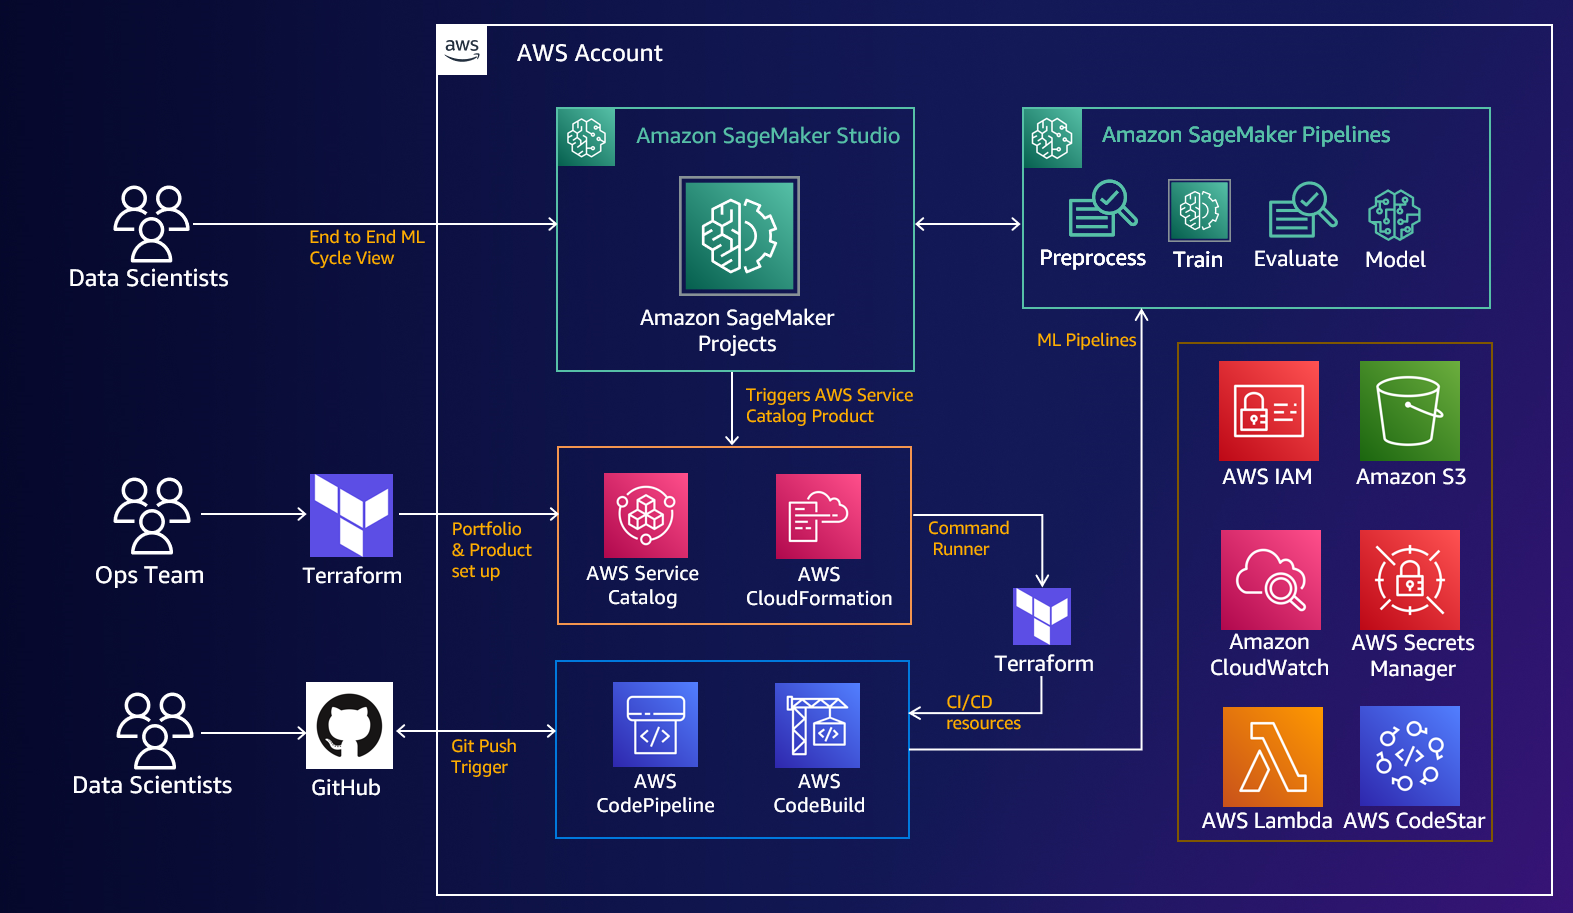
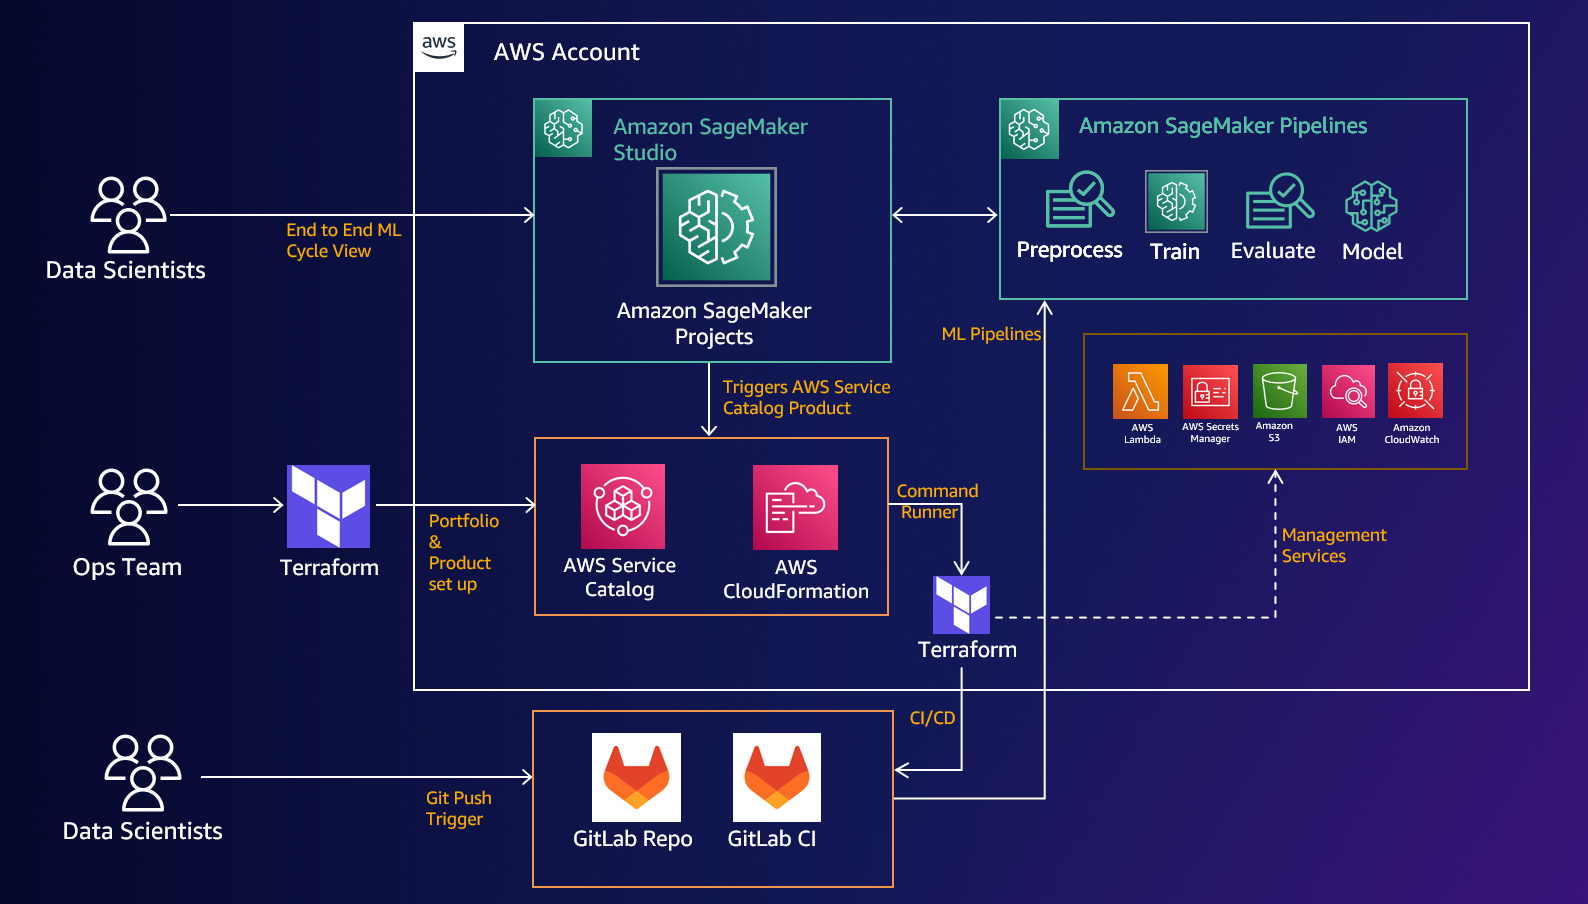
TF & ReadMe Updates

diff --git a/sm-project-tf-gitlab/README.md b/sm-project-tf-gitlab/README.md
@@ -1,6 +1,6 @@
-# Amazon SageMaker Project with Terraform and GitHub
+# Amazon SageMaker Project with Terraform and GitLab
 
-This section of the repository contains steps to set up Amazon SageMaker Project with Terraform as infrastructure as code for resources creation and GitHub connection for use case version control.
+This section of the repository contains steps to set up Amazon SageMaker Project with Terraform as infrastructure as code for resources creation and GitLab connection for use case version control.
 
 [A SageMaker Project](https://docs.aws.amazon.com/sagemaker/latest/dg/sagemaker-projects-whatis.html) helps organizations set up and standarize environments for automating different steps involved in a Machine Learning Lifecycle.
 
@@ -10,7 +10,7 @@ Amazon SageMaker provides a set of first-party templates for organizations that 
 
 SageMaker Projects can support custom template offerings where organizations use a minimum AWS CloudFormation template to execute a Terraform stack and create the resources needed for an ML workflow.
 
-In this section of this repository we will take a look how we can set up an Amazon SageMaker Project to automate and standardize the different steps involved in a Machine Learning Lifecycle by extending the SageMaker provided templates to provision AWS resources with Terraform and connect the use case code with GitHub repositories.
+In this section of this repository we will take a look how we can set up an Amazon SageMaker Project to automate and standardize the different steps involved in a Machine Learning Lifecycle by extending the SageMaker provided templates to provision AWS resources with Terraform and connect the use case code with GitLab repositories.
 
 
 
@@ -20,9 +20,8 @@ In this section of this repository we will take a look how we can set up an Amaz
 
 ### Architecture Overview:
 
-* In this example, the ML code will be hosted in a GitHub Repository.
-* Everytime a Git Push is performed in this repository, it will trigger a Machine Learning Pipeline orchestrated by the AWS CodePipeline.
-* Different steps of the AWS CodePipeline will be executed within an AWS CodeBuild project.
+* In this example, the ML code will be hosted in a GitLab Repository.
+* Everytime a Git Push is performed in this repository, it will trigger a Machine Learning Pipeline orchestrated by the GitLab CI.
 * These steps part of the ML workflow will be represented within an Amazon SageMaker feature called as the SageMaker Pipelines.
 * SageMaker Pipelines are a series of interconnected steps encoded using a directed acyclic graph (DAG).
 * DataScientists can review these SageMaker Pipelines in Amazon SageMaker Studio within the SageMaker Project.
@@ -39,15 +38,13 @@ In this section of this repository we will take a look how we can set up an Amaz
             - AWS IAM resources.
             - DynamoDB table for backend state of the SageMaker Project infrastructure. 
             - CloudWatch Log group.
-            - Secrets Manager secret to store the GitHub Credentials.
+            - Secrets Manager secret to store the GitLab Credentials.
             
     * Second package is for the [Amazon SageMaker Project Set Up](sagemaker-project-setup)
         - This has the terraform code to provision Machine Learning Pipeline resources associated with the SageMaker project.
         - At a high level those resources are:
-            - AWS CodePipeline for the ML workflow.
-            - AWS CodeBuild resources for this CodePipeline.
             - S3 bucket to store the ML artifacts
-            - AWS Lambda function and CodeBuild resources to push a sample ML seed code to the GitHub ML repo.
+            - AWS Lambda function to push a sample ML seed code to the GitLab ML repo.
 
 ### Integration between Amazon SageMaker Project and Terraform
 
@@ -61,27 +58,20 @@ In this section of this repository we will take a look how we can set up an Amaz
 
 
 ## Instructions
-
-### Step 1: Create AWS CodeStar Connection for GitHub Integration
-
-1. In this example we will be using GitHub as the Source Code repository to store our Machine Learning Code.
-2. We will use AWS CodeStar service to set up the GitHub repo connection with AWS.
-3. Follow the instructions provided [in this link for the CodeStart Connection](https://docs.aws.amazon.com/sagemaker/latest/dg/sagemaker-projects-walkthrough-3rdgit.html#sagemaker-proejcts-walkthrough-connect-3rdgit)
-4. Note the AWS CodeStar Connection ARN.
     
-### Step 2: Enable CloudFormation CommandRunner Utility in your AWS account
+### Step 1: Enable CloudFormation CommandRunner Utility in your AWS account
 
 1. As mentioned earlier, we will be using CommandRunner Utility to run the second package of the Terraform Code to provision the ML pipeline resources.
 2. CommandRunner is not enabled by default, we will need to register it to start using it.
 3. Follow the instructions provided [in this link for the CommandRunner set up](https://aws.amazon.com/premiumsupport/knowledge-center/cloudformation-commandrunner-stack/)
 
-### Step 3: Terraform Installation.
+### Step 2: Terraform Installation.
 1. Install Terraform on your development machine. [Reference Link](https://learn.hashicorp.com/tutorials/terraform/install-cli)
 
-### Step 4: Configure AWS permissions in your development machine.
+### Step 3: Configure AWS permissions in your development machine.
 1. Make sure your development machine has AWS permissions configured to provision the AWS resources using Terraform. [Reference Link](https://docs.aws.amazon.com/cli/latest/userguide/cli-configure-quickstart.html)
 
-### Step 5: Service Catalog Set up.
+### Step 4: Service Catalog Set up.
 1. Clone this GitHub repository. __"git clone https://github.com/aws-samples/sagemaker-custom-project-templates.git"__.
 2. Navigate to the "Service Catalog Set up" directory. Run __"cd sm-project-tf-github/service-catalog-setup/"__.
 3. Update the __"terraform.tfvars"__ file as per your organization environment.
@@ -94,7 +84,7 @@ In this section of this repository we will take a look how we can set up an Amaz
 10. This terraform execution will return the follow outputs. Make a note of these outputs.
     - IAM Instance Profile for the CommandRunner Utility.
     - S3 Bucket Name.
-    - Secrets Manager Secret ARN which has the GitHub Secrets.
+    - Secrets Manager Secret Name which has the GitLab Secrets.
     - Service Catalog Product Name.
     - CloudWatch Log Group Name.
 
@@ -115,7 +105,7 @@ In this section of this repository we will take a look how we can set up an Amaz
 7. We now need to enter the values for the Project Template parameters. They are populated with the default values, but needs to be updated as per your environment.
 8. For CommandRunnerIAMInstanceProfile, enter the value you had noted from the Output of Terraform Run of previous step.
 9. For TerraformInitAction, select "init". 
-10. For GitRepoURL, enter the URL of your GitHub repository that will have model build code in https://git-url.git format.
+10. For GitRepoURL, enter the URL of your GitLab repository that will have model build code in https://git-url.git format.
 11. For GitBranchName, enter the branch to use from your Git repository for pipeline activities.
 12. For TerraformAction - select "apply".
 13. For MLOpsS3Bucket, enter the value you had noted from the Output of Terraform Run of previous step.
